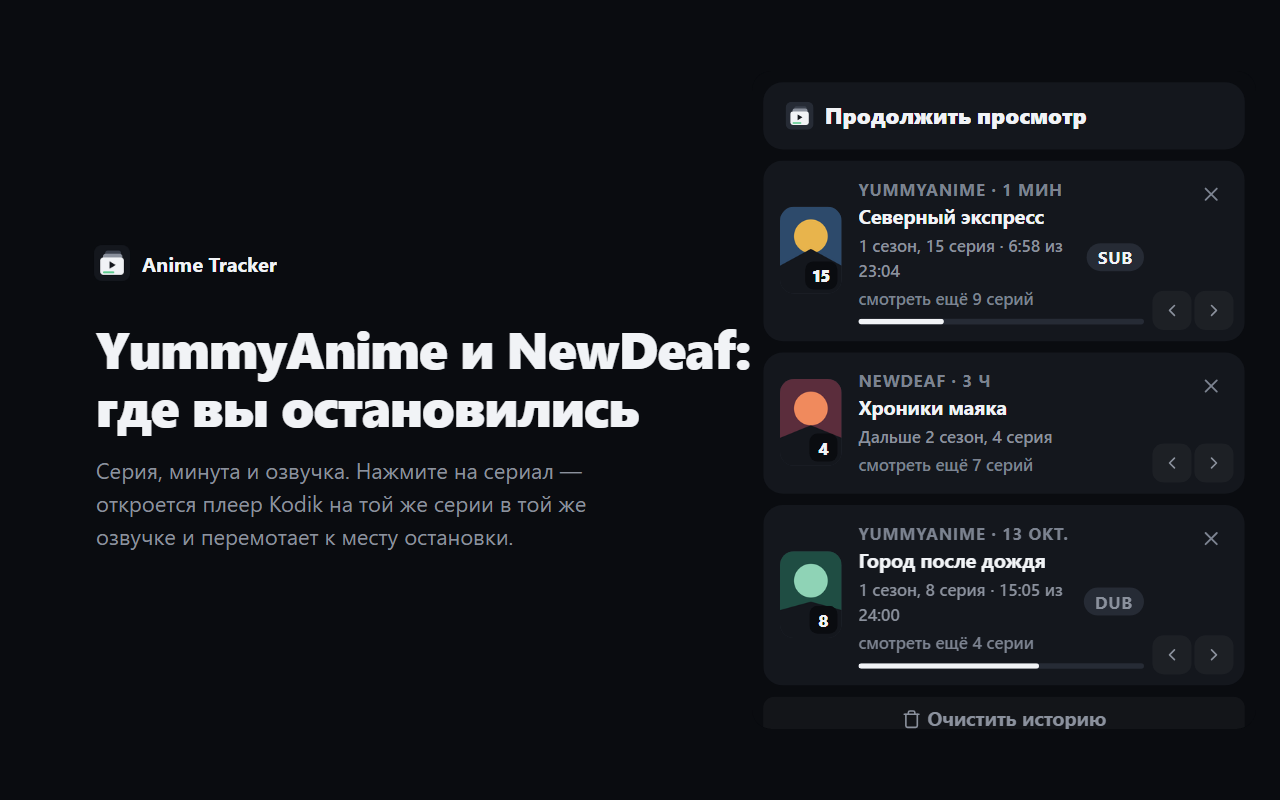
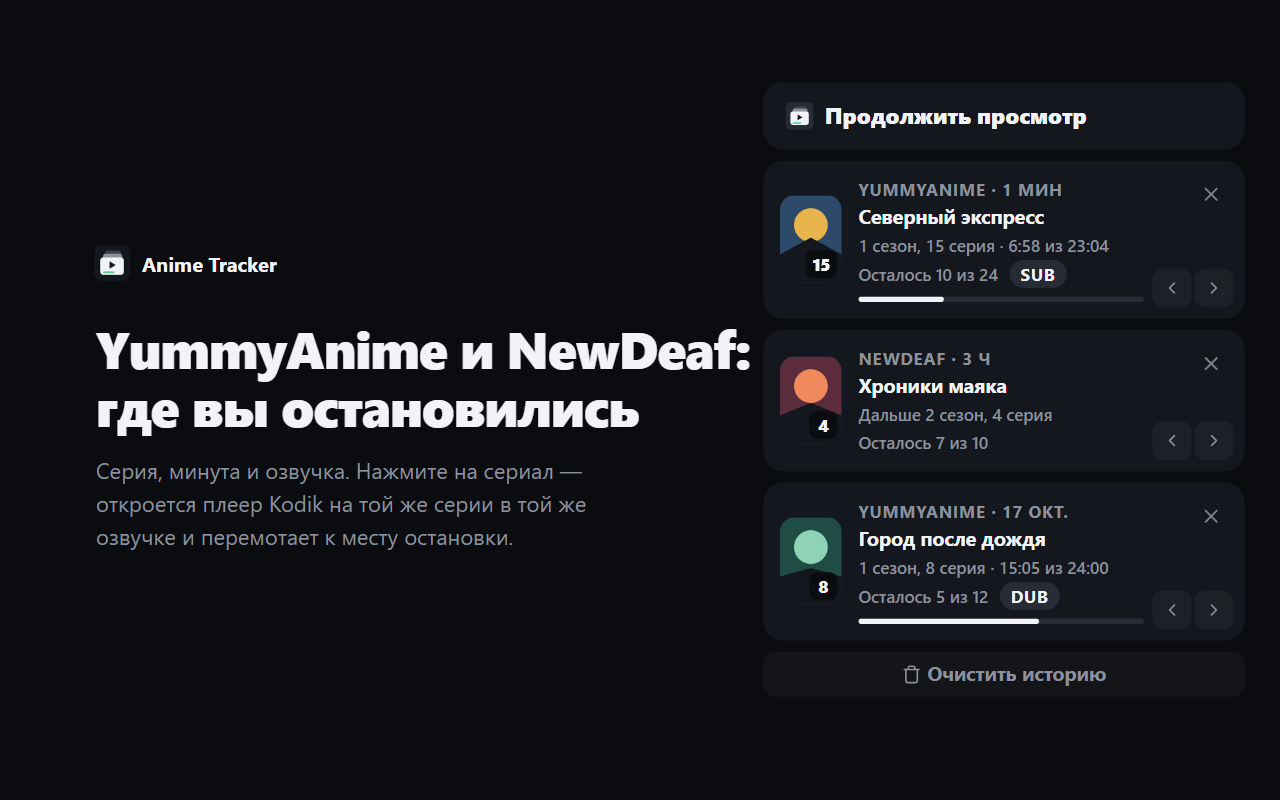
feat(popup): UX-ревью — правка серии с отменой, строка «где я», контраст, фокус, тосты
Ревью по awesome-ux-skills и ui-ux-pro-max (18.10):
- ‹ › — тост «Запомнили N серию · Отменить» (правка обнуляла время без возврата);
- «1 сезон, 6 серия · 6:58 из 23:04» одной строкой; вторым рядом «Осталось N из M»
  (считая серию на значке) и SUB/DUB;
- контраст до AA: DUB и подписи (--dim давал 3.78:1 при наведении);
- попап по высоте не обрезает низ: колонка, прокручивается только список;
- блок «Отслеживать» под списком — появлялся с задержкой и сдвигал карточки под курсором;
  тексты по состоянию сайта;
- фокус клавиатуры возвращается после действий; тост 8 с с паузой под курсором;
- «Очистить историю» без confirm(), с «Вернуть»; досмотренные сериалы — вниз списка;
- в ошибке загрузки — кнопка «Повторить»; сбой удаления/очистки показывается.
Версии: личная 2.4.0, магазин 1.2.0. Скриншоты магазина перерисованы.

diff --git a/popup.js b/popup.js
@@ -42,12 +42,17 @@ function render(list) {
   const ul = document.getElementById('watchList');
   const empty = document.getElementById('emptyState');
   ul.innerHTML = '';
+  // досмотренные целиком — вниз: первая карточка всегда та, что можно продолжить (порядок по свежести
+  // внутри групп сохраняется — сортировка устойчивая)
+  list = [...list].sort((a, b) => atStatus(a).finished - atStatus(b).finished);
   empty.classList.toggle('hidden', list.length > 0);
   document.getElementById('footer').classList.toggle('hidden', list.length === 0);
 
   for (const e of list) {
     const li = el('li', 'watch-item');
+    li.dataset.key = e.key; // по нему возвращаем фокус после перерисовки
     const a = el('a', 'watch-link');
+    a.dataset.role = 'open';
     const safe = atSafeUrl(e.url);
     if (safe) a.href = safe + '#at-continue'; // метка: страница сама прокрутит к плееру
     a.target = '_blank';
@@ -87,36 +92,33 @@ function render(list) {
     titleEl.title = e.title; // длинное название режется многоточием — полное по наведению
     info.appendChild(titleEl);
 
-    // «1 сезон 3 серия · 12:34 из 23:04» — как «последняя информация» на HDrezka
+    // Ряд 1 — «где я»: «1 сезон, 3 серия · 12:34 из 23:04», одной строкой без переноса.
+    // Чип озвучки раньше стоял здесь и выталкивал время на вторую строку.
     const season = e.season ? `${e.season} сезон, ` : '';
+    const next = atStatus(e).next;
     const line = finished
       ? `Досмотрено: все ${e.total} серий`
       : done
-        ? `Дальше ${season}${e.episode + 1} серия`
+        ? `Дальше ${season}${next} серия`
         : `${season}${e.episode} серия` + (e.time ? ` · ${fmt(e.time)}${e.duration ? ' из ' + fmt(e.duration) : ''}` : '');
-    const metaRow = el('div', 'watch-meta');
-    metaRow.appendChild(document.createTextNode(line));
-    // ярлык озвучки: SUB — субтитры, DUB · студия — озвучка; в ней же откроется плеер
+    info.appendChild(el('div', 'watch-meta watch-line', line));
+
+    // Ряд 2 — сколько осталось (считая серию на значке) и озвучка
+    const sub = el('div', 'watch-sub');
+    const left = e.total && !finished ? e.total - next + 1 : 0;
+    if (left > 0) sub.appendChild(el('span', 'watch-left', `Осталось ${left} из ${e.total}`));
+    // ярлык озвучки: SUB — субтитры, DUB — озвучка (студия — по наведению); в ней же откроется плеер
     const tr = e.translation;
+    let trSpoken = '';
     if (tr?.title) {
       const isSub = tr.type === 'sub' || /субтитр/i.test(tr.title);
-      // коротко: длинное «DUB · AniDUB» выталкивало строку серии на два ряда; студия — по наведению
-      const chip = el('span', 'tr-chip' + (isSub ? ' tr-chip--sub' : ''), isSub ? 'SUB' : 'DUB');
+      const chip = el('span', 'tr-chip', isSub ? 'SUB' : 'DUB');
       chip.title = isSub ? (/^субтитры$/i.test(tr.title) ? 'Субтитры' : `Субтитры: ${tr.title}`) : `Озвучка: ${tr.title}`;
-      metaRow.appendChild(chip);
+      sub.appendChild(chip);
+      trSpoken = `. ${isSub ? 'Субтитры' : 'Озвучка ' + tr.title}`; // скринридеру, а не только мыши
     }
-    info.appendChild(metaRow);
-    // озвучку слышит и скринридер, а не только мышь в подсказке
-    const trSpoken = e.translation?.title
-      ? `. ${e.translation.type === 'sub' ? 'Субтитры' : 'Озвучка ' + e.translation.title}`
-      : '';
-    a.setAttribute('aria-label', `${e.title}. ${line}${trSpoken}`);
-
-    // «смотреть ещё N серий»
-    const remaining = e.total && !finished ? e.total - e.episode : 0;
-    if (remaining > 0) {
-      info.appendChild(el('div', 'watch-left', `смотреть ещё ${remaining} ${plural(remaining, ['серию', 'серии', 'серий'])}`));
-    }
+    if (sub.childNodes.length) info.appendChild(sub);
+    a.setAttribute('aria-label', `${e.title}. ${line}${left > 0 ? `. Осталось ${left} из ${e.total}` : ''}${trSpoken}`);
 
     if (e.duration && !done) {
       const bar = el('div', 'watch-progress');
@@ -138,25 +140,33 @@ function render(list) {
     ]) {
       const target = shown + delta;
       const b = el('button', 'btn-step');
+      b.dataset.role = delta < 0 ? 'prev' : 'next';
       b.appendChild(atIcon(icon, 14));
       b.title = `Не та серия? Запомнить ${target}`;
       b.setAttribute('aria-label', `${label}: запомнить ${target} серию для «${e.title}»`);
       b.disabled = target < 1;
       b.addEventListener('click', async () => {
         await chrome.runtime.sendMessage({ type: 'manual', key: e.key, patch: { episode: target, time: 0, duration: 0 } });
-        load();
+        await load();
+        // правка обнуляет время серии — случайный клик не должен стирать «6:58» насовсем
+        showToast(`Запомнили ${target} серию`, 'Отменить', async () => {
+          await chrome.runtime.sendMessage({ type: 'restore', entry: e, replace: true });
+          load();
+        });
       });
       step.appendChild(b);
     }
 
     const del = el('button', 'btn-remove');
+    del.dataset.role = 'remove';
     del.appendChild(atIcon('x', 16));
     del.title = 'Убрать из списка';
     del.setAttribute('aria-label', `Убрать «${e.title}» из списка`);
     del.addEventListener('click', async (ev) => {
       ev.preventDefault();
       ev.stopPropagation();
-      await chrome.runtime.sendMessage({ type: 'remove', key: e.key });
+      const r = await chrome.runtime.sendMessage({ type: 'remove', key: e.key }).catch(() => null);
+      if (!r?.ok) return showToast('Не получилось убрать — попробуйте ещё раз'); // не врём «убран» при сбое
       await load();
       // удаление обратимо: промах по крестику не стирает историю тайтла насовсем
       showToast(`«${e.title}» убран`, 'Вернуть', async () => {
@@ -174,6 +184,11 @@ function render(list) {
 }
 
 async function load() {
+  // перерисовка стирает список — запоминаем, где был фокус клавиатуры, чтобы вернуть его (WCAG 2.4.3)
+  const focused = document.activeElement;
+  const focusKey = focused?.closest?.('[data-key]')?.dataset.key;
+  const focusRole = focused?.dataset?.role;
+  const keys = [...document.querySelectorAll('#watchList [data-key]')].map((li) => li.dataset.key);
   let r = null;
   try {
     r = await chrome.runtime.sendMessage({ type: 'list' });
@@ -188,10 +203,35 @@ async function load() {
     return;
   }
   render(r.list || []);
+  if (focusKey) restoreFocus(focusKey, focusRole, keys.indexOf(focusKey));
 }
 
-// Тост r6tv: белая плашка, текст цвета фона, 14/700, радиус --r-btn; одно действие и автоскрытие
+// тот же элемент той же карточки; карточку удалили — соседняя на её месте (или предыдущая)
+function restoreFocus(key, role, oldIndex) {
+  const items = [...document.querySelectorAll('#watchList [data-key]')];
+  const li = items.find((x) => x.dataset.key === key) || items[Math.min(oldIndex, items.length - 1)];
+  if (!li) return document.getElementById('btnClear')?.focus();
+  const target = (role && li.querySelector(`[data-role="${role}"]:not(:disabled)`)) || li.querySelector('[data-role="open"]');
+  target?.focus();
+}
+
+// Тост r6tv: белая плашка, текст цвета фона, 14/700, радиус --r-btn; одно действие и автоскрытие.
+// 8 с и пауза, пока на нём курсор или фокус: «Вернуть» должны успеть нажать (WCAG 2.2.1).
+const TOAST_MS = 8000;
 let toastTimer = 0;
+function hideToast() {
+  document.getElementById('toast').classList.add('hidden');
+  document.body.classList.remove('has-toast');
+}
+function armToast() {
+  clearTimeout(toastTimer);
+  toastTimer = setTimeout(hideToast, TOAST_MS);
+}
+{
+  const t = document.getElementById('toast');
+  for (const ev of ['mouseenter', 'focusin']) t.addEventListener(ev, () => clearTimeout(toastTimer));
+  for (const ev of ['mouseleave', 'focusout']) t.addEventListener(ev, armToast);
+}
 function showToast(text, actionLabel, onAction) {
   const t = document.getElementById('toast');
   t.innerHTML = '';
@@ -199,14 +239,14 @@ function showToast(text, actionLabel, onAction) {
   if (actionLabel) {
     const b = el('button', 'toast-action', actionLabel);
     b.addEventListener('click', () => {
-      t.classList.add('hidden');
+      hideToast();
       onAction();
     });
     t.appendChild(b);
   }
   t.classList.remove('hidden');
-  clearTimeout(toastTimer);
-  toastTimer = setTimeout(() => t.classList.add('hidden'), 6000);
+  document.body.classList.add('has-toast'); // список получает отступ снизу — тост не закрывает ‹ › последней карточки
+  armToast();
 }
 
 // знак расширения «Стопка серий» (тот же, что icons/*.png — scripts/icons.py); разметка — константа
@@ -219,12 +259,19 @@ document.getElementById('emptyIcon').appendChild(atIcon('tv', 40));
 const btnClear = document.getElementById('btnClear');
 btnClear.append(atIcon('trash', 14), document.createTextNode('Очистить историю'));
 
+// Очистка — как удаление одной записи: сразу и с «Вернуть», без системного confirm() поверх попапа
 btnClear.addEventListener('click', async () => {
-  if (confirm('Очистить всю историю просмотров?')) {
-    await chrome.runtime.sendMessage({ type: 'clear' });
+  const r = await chrome.runtime.sendMessage({ type: 'list' });
+  const before = r?.list || [];
+  const done = await chrome.runtime.sendMessage({ type: 'clear' }).catch(() => null);
+  if (!done?.ok) return showToast('Не получилось очистить — попробуйте ещё раз');
+  await load();
+  showToast('История очищена', 'Вернуть', async () => {
+    await chrome.runtime.sendMessage({ type: 'restoreAll', entries: before });
     load();
-  }
+  });
 });
+document.getElementById('btnRetry').addEventListener('click', () => load());
 
 load();
 initSiteBar();
@@ -251,6 +298,10 @@ async function initSiteBar() {
   const host = atHostKey(url.hostname);
   const { sites = [] } = await chrome.storage.local.get('sites');
   const tracked = atTrackedSite(url.hostname, sites);
+  // пустой список говорит, что делать именно здесь, а не общую инструкцию
+  document.getElementById('emptySub').textContent = tracked
+    ? 'Включите серию — она появится здесь'
+    : 'Нажмите «Отслеживать» и включите серию';
 
   let frames = [];
   if (!tracked) {
@@ -265,11 +316,11 @@ async function initSiteBar() {
   const bar = document.getElementById('siteBar');
   const btn = document.getElementById('btnSite');
   document.getElementById('siteHost').textContent = host;
-  document.getElementById('siteState').textContent = tracked ? 'Отслеживается' : 'Этот сайт';
-  btn.textContent = tracked ? 'Не отслеживать' : 'Отслеживать этот сайт';
+  document.getElementById('siteState').textContent = tracked ? 'Отслеживается' : 'Не отслеживается';
+  btn.textContent = tracked ? 'Не отслеживать' : 'Отслеживать';
   btn.classList.toggle('btn-site--primary', !tracked);
   btn.title = tracked
-    ? 'Расширение перестанет читать видео на этом сайте и вернёт доступ к нему. История останется'
+    ? 'Расширение перестанет видеть этот сайт и откажется от доступа к нему. История останется'
     : 'Chrome спросит доступ к этому сайту' + (frames.length ? ' и к окну его плеера' : '');
   bar.classList.remove('hidden');
 

diff --git a/popup.css b/popup.css
@@ -35,7 +35,10 @@
 
 body {
   width: 360px;
-  max-height: 580px;
+  /* колонка: шапка и низ на месте, прокручивается только список — раньше низ обрезался overflow:hidden */
+  max-height: 600px;
+  display: flex;
+  flex-direction: column;
   background: var(--surface-page);
   color: var(--text);
   /* Roboto — шрифт r6tv; без сети и без установленного Roboto — системный гротеск */
@@ -43,7 +46,7 @@ body {
   overflow: hidden;
 }
 
-.container { display: flex; flex-direction: column; gap: var(--gap); padding: var(--gap); }
+.container { display: flex; flex-direction: column; gap: var(--gap); padding: var(--gap); flex: 1; min-height: 0; }
 .hidden { display: none !important; }
 
 /* ── шапка: ячейка с заголовком ── */
@@ -71,7 +74,7 @@ body {
 /* ── список: каждая запись — ячейка bento ── */
 .watch-list {
   list-style: none; display: flex; flex-direction: column; gap: var(--gap);
-  max-height: 470px; overflow-y: auto; scrollbar-width: thin; scrollbar-color: var(--surface-selected) transparent;
+  flex: 1; min-height: 0; overflow-y: auto; scrollbar-width: thin; scrollbar-color: var(--surface-selected) transparent;
 }
 .watch-item { position: relative; }
 .watch-link {
@@ -99,7 +102,10 @@ body {
   white-space: nowrap; overflow: hidden; text-overflow: ellipsis;
 }
 .watch-meta { font-size: var(--fs-min); color: var(--muted); font-variant-numeric: tabular-nums; }
-.watch-left { font-size: var(--fs-min); color: var(--dim); }
+/* --muted, а не --dim: на карточке при наведении --dim давал 3.78:1 — ниже AA */
+.watch-left { font-size: var(--fs-min); color: var(--muted); }
+.watch-line { white-space: nowrap; overflow: hidden; text-overflow: ellipsis; }
+.watch-sub { display: flex; align-items: center; gap: var(--s2); min-width: 0; }
 
 /* прогресс серии: дорожка — «выбранное», заполнение — белое (данные) */
 .watch-progress { height: 4px; border-radius: 2px; background: var(--surface-selected); margin-top: var(--s1); overflow: hidden; }
@@ -108,7 +114,7 @@ body {
 /* эйбрау: микролейбл капсом — один рецепт продукта r6tv (components.css «ЭЙБРАУ») */
 .watch-eyebrow {
   font-size: var(--fs-min); font-weight: 700; letter-spacing: var(--eyebrow-ls);
-  text-transform: uppercase; color: var(--dim); line-height: 1.4;
+  text-transform: uppercase; color: var(--muted); line-height: 1.4;
   white-space: nowrap; overflow: hidden; text-overflow: ellipsis;
 }
 
@@ -161,14 +167,13 @@ body {
   .watch-link:active, .btn-clear-text:active { transform: none; }
 }
 
-/* ярлык озвучки: пилюля-контрол r6tv, микролейбл капсом; SUB — светлее (это данные, не украшение) */
-.watch-meta { display: flex; align-items: center; gap: var(--s2); min-width: 0; }
+/* ярлык озвучки: пилюля-контрол r6tv, микролейбл капсом */
 .tr-chip {
   flex: none; max-width: 140px; overflow: hidden; text-overflow: ellipsis; white-space: nowrap;
   padding: 1px var(--s2); border-radius: 999px; background: var(--surface-selected);
-  font-size: var(--fs-min); font-weight: 700; letter-spacing: var(--eyebrow-ls); color: var(--muted);
+  font-size: var(--fs-min); font-weight: 700; letter-spacing: var(--eyebrow-ls); color: var(--text);
 }
-.tr-chip--sub { color: var(--text); }
+/* SUB и DUB различаются словом; серый DUB на --surface-selected давал 4.48:1 — ниже AA */
 
 /* постер в ячейке (r6tv: «фото в ячейке»), номер серии — пилюлей поверх */
 .ep-thumb {
@@ -217,3 +222,7 @@ body {
 .btn-site--primary { background: var(--text); color: var(--surface-page); }
 .btn-site--primary:hover { background: #ffffff; color: var(--surface-page); }
 .btn-site:focus-visible { outline: 2px solid var(--accent-edge); outline-offset: 2px; }
+
+/* пока виден тост — отступ снизу, чтобы он не закрывал ‹ › последней карточки */
+body.has-toast .watch-list { padding-bottom: 48px; }
+.btn-retry { width: auto; padding: 0 var(--s4); margin-top: var(--s2); }

diff --git a/popup.html b/popup.html
@@ -11,7 +11,22 @@
       <h1 class="logo"><span class="logo-icon" id="logoIcon"></span> Продолжить просмотр</h1>
     </header>
 
-    <!-- сборка для магазина: отслеживаются только сайты, добавленные здесь -->
+    <div id="emptyState" class="empty-state hidden">
+      <div class="empty-icon" id="emptyIcon"></div>
+      <p>Пока ничего не смотрели</p>
+      <p class="empty-sub" id="emptySub">Откройте сайт с видео и нажмите здесь «Отслеживать»</p>
+    </div>
+
+    <div id="errorState" class="empty-state hidden" role="alert">
+      <p>Не удалось загрузить историю</p>
+      <p class="empty-sub">Обычно помогает повтор. Если нет — выключите и включите<br>расширение на странице chrome://extensions</p>
+      <button class="btn-clear-text btn-retry" id="btnRetry">Повторить</button>
+    </div>
+
+    <ul class="watch-list" id="watchList"></ul>
+
+    <!-- сборка для магазина: отслеживаются только сайты, добавленные здесь. Под списком, а не над ним:
+         плашка появляется с задержкой (запрос вкладки и окон плеера) и сдвигала карточки под курсором -->
     <section class="site-bar hidden" id="siteBar" aria-live="polite">
       <div class="site-info">
         <div class="site-eyebrow" id="siteState"></div>
@@ -19,19 +34,6 @@
       </div>
       <button class="btn-site" id="btnSite"></button>
     </section>
-
-    <div id="emptyState" class="empty-state hidden">
-      <div class="empty-icon" id="emptyIcon"></div>
-      <p>Пока ничего не смотрели</p>
-      <p class="empty-sub" id="emptySub">Откройте сайт с видео, нажмите<br>«Отслеживать этот сайт» и включите серию</p>
-    </div>
-
-    <div id="errorState" class="empty-state hidden" role="alert">
-      <p>Не удалось загрузить историю</p>
-      <p class="empty-sub">Перезагрузите расширение в chrome://extensions<br>и откройте окно снова</p>
-    </div>
-
-    <ul class="watch-list" id="watchList"></ul>
     <!-- очистка всей истории — внизу и словами: крестик в шапке читался как «закрыть окно» -->
     <footer class="footer hidden" id="footer">
       <button class="btn-clear-text" id="btnClear"></button>
